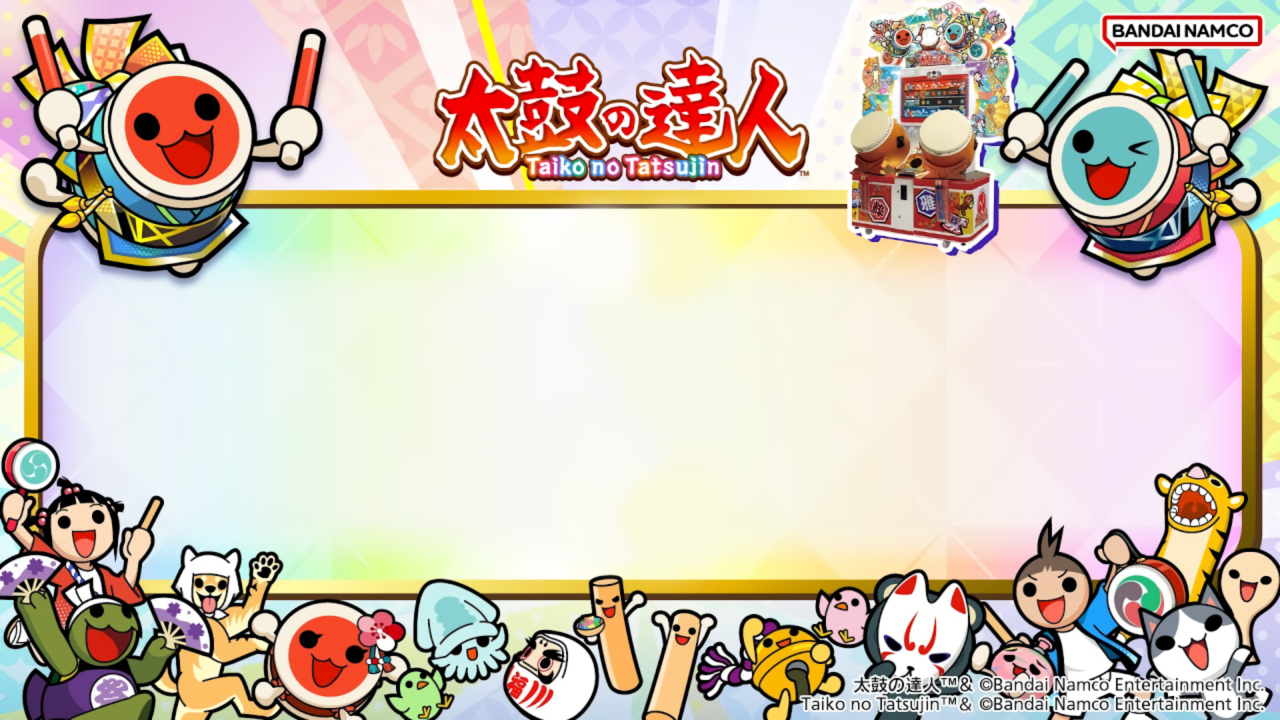
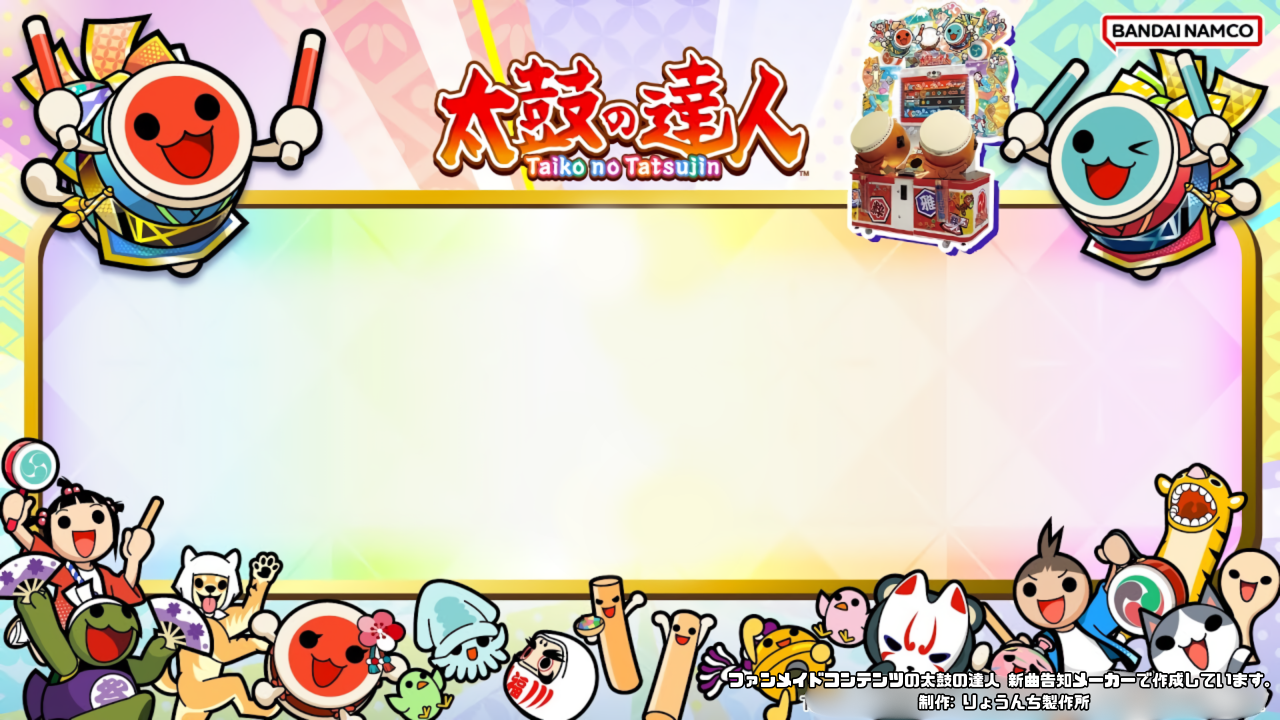
画像を差し替え、miterLimit再度修正

Changed region(s): [[0.5625, 0.9167, 1.0, 1.0]]

diff --git a/script.js b/script.js
@@ -68,7 +68,8 @@ function drawGradientStrokeText(text, x, y, fontSize, colorTop, colorBottom, max
   ctx.font = `${fontSize}px ${fontFamily}`;
   ctx.textBaseline = 'middle';
   ctx.textAlign = 'center';
-  ctx.miterLimit = 1;
+  ctx.lineJoin = 'miter'
+  ctx.miterLimit = 2;
 
   const lines = text.split('\n');
   const lineSpacing = fontSize + 12;
